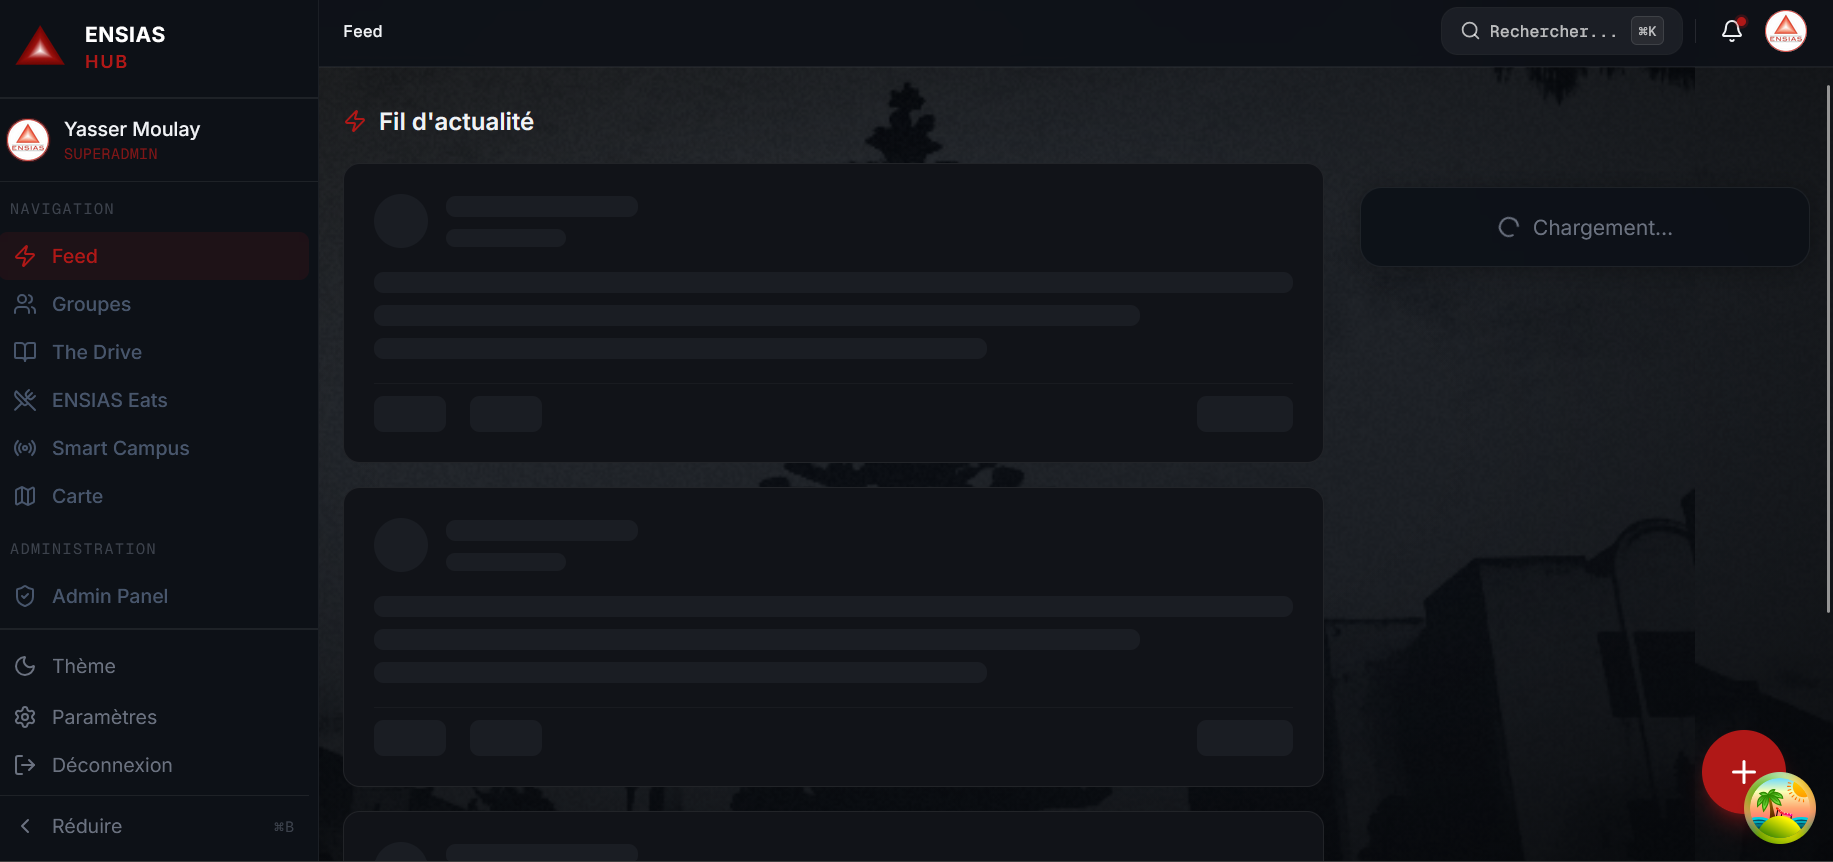
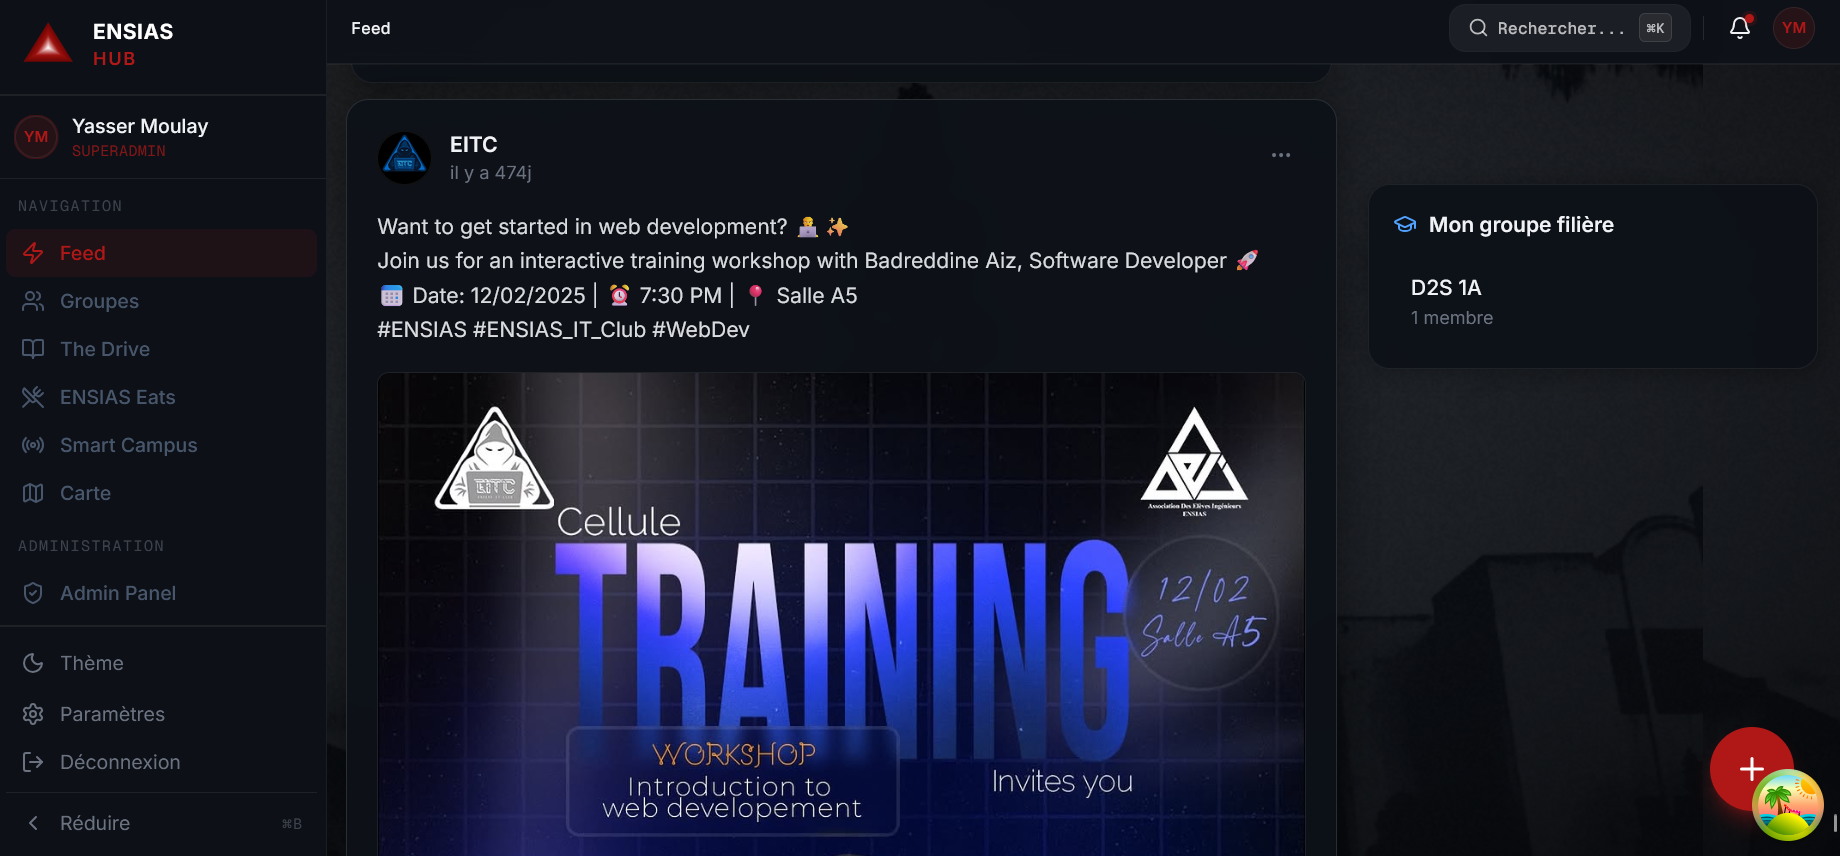
des modification pour resoudre le bug

diff --git a/components/profile/ProfileHeader.tsx b/components/profile/ProfileHeader.tsx
@@ -50,7 +50,7 @@ export function ProfileHeader({
     <div className="rounded-2xl overflow-hidden border border-white/10 bg-[#111827]">
       {/* ── BANNIÈRE ─────────────────────────────────────────────── */}
       <div className="relative h-52 bg-gradient-to-br from-[#1a2a4a] to-[#0f1923] group">
-        {user.cover_url && (
+        {user?.cover_url && (
           <img
             src={getStorageUrl(user.cover_url)}
             alt="Bannière"
@@ -88,10 +88,10 @@ export function ProfileHeader({
               className="w-24 h-24 rounded-full border-4 border-[#111827]
                             overflow-hidden bg-[#1e2a3a]"
             >
-              {user.avatar_url ? (
+              {user?.avatar_url ? (
                 <img
                   src={getStorageUrl(user.avatar_url)}
-                  alt={user.name}
+                  alt={user?.name ?? "Avatar"}
                   className="w-full h-full object-cover"
                 />
               ) : (
@@ -100,7 +100,7 @@ export function ProfileHeader({
                                 bg-gradient-to-br from-red-700 to-red-900"
                 >
                   <span className="text-2xl font-bold text-white">
-                    {user.name.charAt(0).toUpperCase()}
+                    {(user?.name?.charAt(0) ?? "?").toUpperCase()}
                   </span>
                 </div>
               )}
@@ -157,12 +157,16 @@ export function ProfileHeader({
         {/* ── IDENTITÉ ─────────────────────────────────────────────── */}
         <div className="space-y-2">
           <div>
-            <h1 className="text-2xl font-bold text-white">{user.name}</h1>
-            <p className="text-white/50 text-sm">@{user.username}</p>
+            <h1 className="text-2xl font-bold text-white">
+              {user?.name ?? "Utilisateur"}
+            </h1>
+            <p className="text-white/50 text-sm">
+              @{user?.username ?? "inconnu"}
+            </p>
           </div>
 
           {/* Titre académique */}
-          {user.filiere && (
+          {user?.filiere && (
             <p className="text-white/80 text-sm font-medium">
               Élève Ingénieur en {user.filiere}
               {user.specialite ? `/${user.specialite}` : ""} — ENSIAS Rabat
@@ -170,10 +174,13 @@ export function ProfileHeader({
           )}
 
           {/* Badges */}
-          <BadgeList role={user.role} contextualRoles={user.contextual_roles} />
+          <BadgeList
+            role={user?.role}
+            contextualRoles={user?.contextual_roles}
+          />
 
           {/* Bio */}
-          {user.bio && (
+          {user?.bio && (
             <p className="text-white/70 text-sm leading-relaxed max-w-2xl mt-2">
               {user.bio}
             </p>
@@ -181,12 +188,12 @@ export function ProfileHeader({
 
           {/* Infos de contact */}
           <div className="flex flex-wrap items-center gap-4 text-white/50 text-sm mt-3">
-            {user.ville && (
+            {user?.ville && (
               <span className="flex items-center gap-1">
                 <MapPin size={13} /> {user.ville}
               </span>
             )}
-            {user.linkedin_url && (
+            {user?.linkedin_url && (
               <a
                 href={user.linkedin_url}
                 target="_blank"
@@ -205,7 +212,7 @@ export function ProfileHeader({
                 LinkedIn
               </a>
             )}
-            {user.github_url && (
+            {user?.github_url && (
               <a
                 href={user.github_url}
                 target="_blank"
@@ -224,7 +231,7 @@ export function ProfileHeader({
                 GitHub
               </a>
             )}
-            {user.website_url && (
+            {user?.website_url && (
               <a
                 href={user.website_url}
                 target="_blank"
@@ -238,9 +245,9 @@ export function ProfileHeader({
 
           {/* Stats */}
           <div className="flex items-center gap-6 pt-3 border-t border-white/10 mt-3">
-            <StatItem value={user.followers_count} label="Abonnés" />
-            <StatItem value={user.following_count} label="Abonnements" />
-            <StatItem value={user.projects_count} label="Projets" />
+            <StatItem value={user?.followers_count ?? 0} label="Abonnés" />
+            <StatItem value={user?.following_count ?? 0} label="Abonnements" />
+            <StatItem value={user?.projects_count ?? 0} label="Projets" />
           </div>
         </div>
       </div>

diff --git a/components/feed/PostCard.tsx b/components/feed/PostCard.tsx
@@ -28,7 +28,7 @@ import { SaveButton } from "@/components/social/SaveButton";
 
 // ── URL resolver (backend-relative paths → absolute) ────────────────────────
 const BACKEND_URL = (
-  process.env.NEXT_PUBLIC_API_URL ?? "http://localhost/api"
+  process.env.NEXT_PUBLIC_API_URL ?? "https://api.ensiashub.me/api"
 ).replace(/\/api$/, "");
 function resolveUrl(url: string): string {
   if (!url || url.startsWith("http")) return url;
@@ -337,7 +337,7 @@ function getCategoryColor(category: string) {
 export function PostCard({ post, onReact }: PostCardProps) {
   const queryClient = useQueryClient();
   const currentUser = useAuthStore((s) => s.user);
-  const isAuthor = currentUser?.id === post.author.id;
+  const isAuthor = currentUser?.id === post.author?.id;
   const [reacted, setReacted] = useState(post.user_reacted);
   const [reactCount, setReactCount] = useState(post.reactions_count);
   const [heartBounce, setHeartBounce] = useState(false);
@@ -366,28 +366,33 @@ export function PostCard({ post, onReact }: PostCardProps) {
     }
   };
 
-  const initials = post.author.name
-    .split(" ")
-    .map((n) => n[0])
-    .join("")
-    .slice(0, 2)
-    .toUpperCase();
+  const initials =
+    (post.author?.name ?? "")
+      .split(" ")
+      .map((n) => n[0])
+      .filter(Boolean)
+      .join("")
+      .slice(0, 2)
+      .toUpperCase() || "?";
 
   // For group posts (clubs and filière-option groups like INSEC/EITC), show
   // the group identity (name + avatar) instead of the technical author
   // (often "Système Admin" for imported/auto-posted content).
   const isGroupPost = !!post.group;
-  const displayName = isGroupPost ? post.group!.name : post.author.name;
+  const displayName = isGroupPost
+    ? (post.group?.name ?? "Groupe")
+    : (post.author?.name ?? "Utilisateur");
   const displayAvatar = isGroupPost
-    ? (post.group!.avatar_url ?? undefined)
-    : post.author.avatar;
+    ? (post.group?.avatar_url ?? undefined)
+    : post.author?.avatar;
   const displayInitials = isGroupPost
-    ? post
-        .group!.name.split(" ")
+    ? (post.group?.name ?? "")
+        .split(" ")
         .map((n) => n[0])
+        .filter(Boolean)
         .join("")
         .slice(0, 2)
-        .toUpperCase()
+        .toUpperCase() || "?"
     : initials;
   const resolvedAvatar = displayAvatar
     ? isGroupPost

diff --git a/app/(dashboard)/eats/page.tsx b/app/(dashboard)/eats/page.tsx
@@ -338,18 +338,7 @@ export default function EatsPage() {
                 <UtensilsCrossed className="size-5 text-[#B01817]" />
                 ENSIAS Eats
               </h2>
-              {/* FIX 5 — Cafeteria status banner */}
-              <div className="flex items-center gap-4 mt-1 mb-3">
-                <div className="flex items-center gap-1.5">
-                  <span className="size-1.5 rounded-full bg-emerald-400 shadow-[0_0_6px_rgba(52,211,153,0.8)] animate-pulse" />
-                  <span className="text-xs text-emerald-400 font-medium">
-                    Ouvert
-                  </span>
-                </div>
-                <span className="text-xs text-muted-foreground">
-                  · Ferme à 15h00
-                </span>
-              </div>
+
             </div>
             <TabsList className="h-8 shrink-0">
               <TabsTrigger value="menu" className="text-xs h-7 gap-1.5">

diff --git a/components/profile/BadgeList.tsx b/components/profile/BadgeList.tsx
@@ -15,12 +15,12 @@ const BADGE_CONFIG: Record<string, { label: string; color: string }> = {
 };
 
 interface BadgeListProps {
-  role: UserRole;
+  role?: UserRole;
   contextualRoles?: ProfileContextualRole[];
 }
 
 export function BadgeList({ role, contextualRoles }: BadgeListProps) {
-  const mainBadge = BADGE_CONFIG[role];
+  const mainBadge = role ? BADGE_CONFIG[role] : undefined;
 
   return (
     <div className="flex flex-wrap gap-2">

diff --git a/lib/api/auth.ts b/lib/api/auth.ts
@@ -2,7 +2,7 @@ import apiClient from "./client";
 import type { User, ApiResponse } from "@/lib/types";
 
 export const getAuthRedirect = (provider: "google" | "microsoft") =>
-  `${process.env.NEXT_PUBLIC_API_URL || "http://localhost/api"}/auth/redirect/${provider}`;
+  `${process.env.NEXT_PUBLIC_API_URL || "https://api.ensiashub.me/api"}/auth/redirect/${provider}`;
 
 export const getMe = () => apiClient.get<ApiResponse<User>>("/me");
 

diff --git a/app/(auth)/complete-profile/page.tsx b/app/(auth)/complete-profile/page.tsx
@@ -67,7 +67,8 @@ function CompleteProfileForm() {
       );
 
       // Fetch the freshly-updated user from /me
-      const base = process.env.NEXT_PUBLIC_API_URL || "http://localhost/api";
+      const base =
+        process.env.NEXT_PUBLIC_API_URL || "https://api.ensiashub.me/api";
       const meRes = await fetch(`${base}/me`, {
         headers: {
           Authorization: `Bearer ${token}`,

diff --git a/app/(auth)/callback/page.tsx b/app/(auth)/callback/page.tsx
@@ -23,7 +23,8 @@ function CallbackHandler() {
 
     const hydrate = async () => {
       try {
-        const base = process.env.NEXT_PUBLIC_API_URL || "http://localhost/api";
+        const base =
+          process.env.NEXT_PUBLIC_API_URL || "https://api.ensiashub.me/api";
         const res = await fetch(`${base}/me`, {
           headers: {
             Authorization: `Bearer ${token}`,

diff --git a/app/(auth)/login/page.tsx b/app/(auth)/login/page.tsx
@@ -69,7 +69,8 @@ export default function LoginPage() {
     setAuthError("");
     setIsLoading(true);
     try {
-      const base = process.env.NEXT_PUBLIC_API_URL || "http://localhost/api";
+      const base =
+        process.env.NEXT_PUBLIC_API_URL || "https://api.ensiashub.me/api";
       const res = await fetch(`${base}/auth/login`, {
         method: "POST",
         headers: {

diff --git a/app/landing/sections/HeroSection.tsx b/app/landing/sections/HeroSection.tsx
@@ -83,7 +83,7 @@ export default function HeroSection() {
                          rounded-lg font-semibold text-white
                          transition-colors flex items-center gap-2"
             >
-              Login →
+              Se connecter →
             </Link>
             <a
               href="#features"

diff --git a/lib/api/client.ts b/lib/api/client.ts
@@ -1,7 +1,7 @@
 import axios from "axios";
 
 const apiClient = axios.create({
-  baseURL: process.env.NEXT_PUBLIC_API_URL || "http://localhost/api",
+  baseURL: process.env.NEXT_PUBLIC_API_URL || "https://api.ensiashub.me/api",
   headers: {
     "Content-Type": "application/json",
     Accept: "application/json",

diff --git a/lib/utils.ts b/lib/utils.ts
@@ -21,7 +21,7 @@ export function getStorageUrl(
     return path;
   }
   const backendBase = (
-    process.env.NEXT_PUBLIC_API_URL || "http://localhost/api"
+    process.env.NEXT_PUBLIC_API_URL || "https://api.ensiashub.me/api"
   ).replace(/\/api$/, "");
   return `${backendBase}${path}`;
 }
